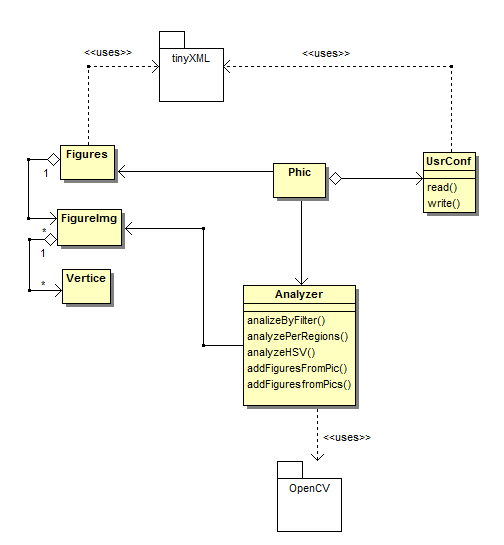
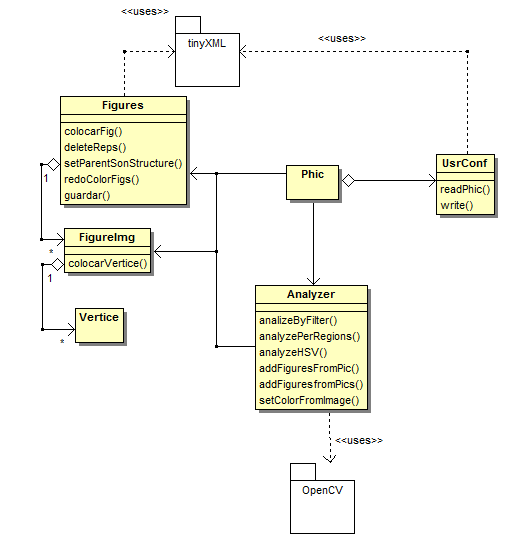
+ diagrama de flujo de phic, añadido, diagrama de clases de phic actualizado.

diff --git a/doc/14c_moduloanalisis.tex b/doc/14c_moduloanalisis.tex
@@ -1,8 +1,5 @@
 \section{Módulo de análisis}
 
-\todo{referenciar figuras,	analizer, uso de opencv como paquete}
-
-
 El módulo de análisis, como ya se ha comentado, es el encargado de, dada una imagen dada y una configuración de entrada, producir un archivo XML con la lista de polígonos que componen la imagen. Esta lista debe componer una nueva imagen lo más fiel posible a la imagen de entrada, teniendo en cuenta los ajustes especificados en el archivo de configuración.\\
 
 Este módulo hace un gran uso de la librería externa OpenCV, de la cual se ayuda tanto para tratar imágenes como para componer formas y polígonos.
@@ -18,8 +15,6 @@ La estructura general del módulo se ve en la Figura~\ref{fig:diagramaclasesPHIC
 		\label{fig:diagramaclasesPHIC}
 		\end{figure}
 		
-	\todo{este diagrama contiene el nombre de ciertas funcionas (las que aparecen en el diagrame de flujo)}
-		
 En ella, se pueden observar las siguientes clases:\\
 
 \begin{itemize}
@@ -30,20 +25,25 @@ En ella, se pueden observar las siguientes clases:\\
 	
 	\item \textbf{UsrConf:} como se explica en posteriores secciones, es una clase común que se ocupa de la lectura de los archivos de configuración.
 	
+	\item \textbf{Figures:} el módulo de análisis utiliza de forma directa la clase Figures anteriormente mencionada. Se muestran en el diagrama los métodos que llevan a cabo las funcionalidades necesarias para la ejecución de este módulo.
+	
+	\item \textbf{FigureImg:} se trata de una especificación de la clase Figure, que toma como padre.
+	
+	\item \textbf{Vertice:} como se comenta en previas secciones, representa cada uno de los vértices que componen un polígono. 
+	
 	\item \textbf{TinyXML:} Se trata de un paquete externo de código libre que permite generar y manipular archivos XML.
 	
-\end{itemize}	
+	
+\end{itemize}
 			
-El flujo de ejecución de un análisis cualquiera realizado con este módulo se ve en la Figura~\ref{fig:diagramaflujoPHIC}.\\
+El flujo de ejecución de un análisis cualquiera realizado con este módulo se ve en la Figura~\ref{fig:diagramaflujoPHIC}. En él, se observa cómo es Analyzer la que se comunica con OpenCV para realizar las opciones necesarias, ordenadas por Phic.\\
 
 		\begin{figure}[htbp]
 		\centering
-		\includegraphics[scale=0.47]{graphics/todo.png}
+		\includegraphics[scale=0.47]{graphics/diagramaflujoPHIC.png}
 		\caption{Flujo de ejecución del módulo de anális}
 		\label{fig:diagramaflujoPHIC}
 		\end{figure}
-		
-\todo{resumen pequeño que se hace mucho mas rapido con el diagrama ya hecho}
 		
 \subsection{Vista de despliegue}
 \todo{puede que sobre porque es obvio y UBERrepetitivo, pero es para que se vea que opencv está como dll ahí}
